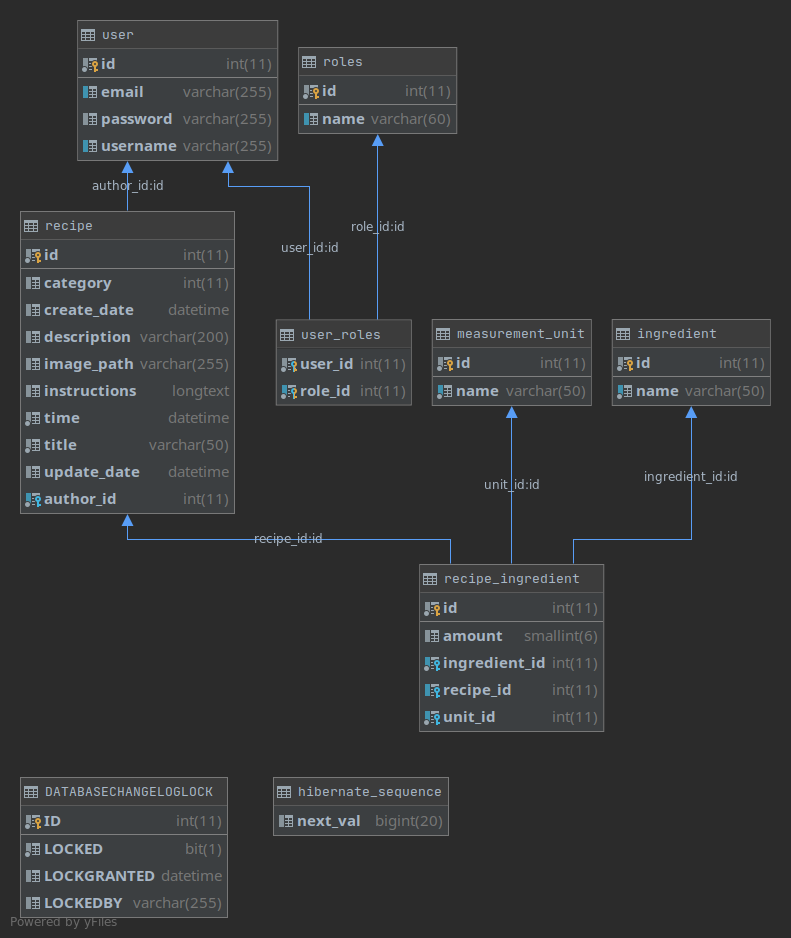
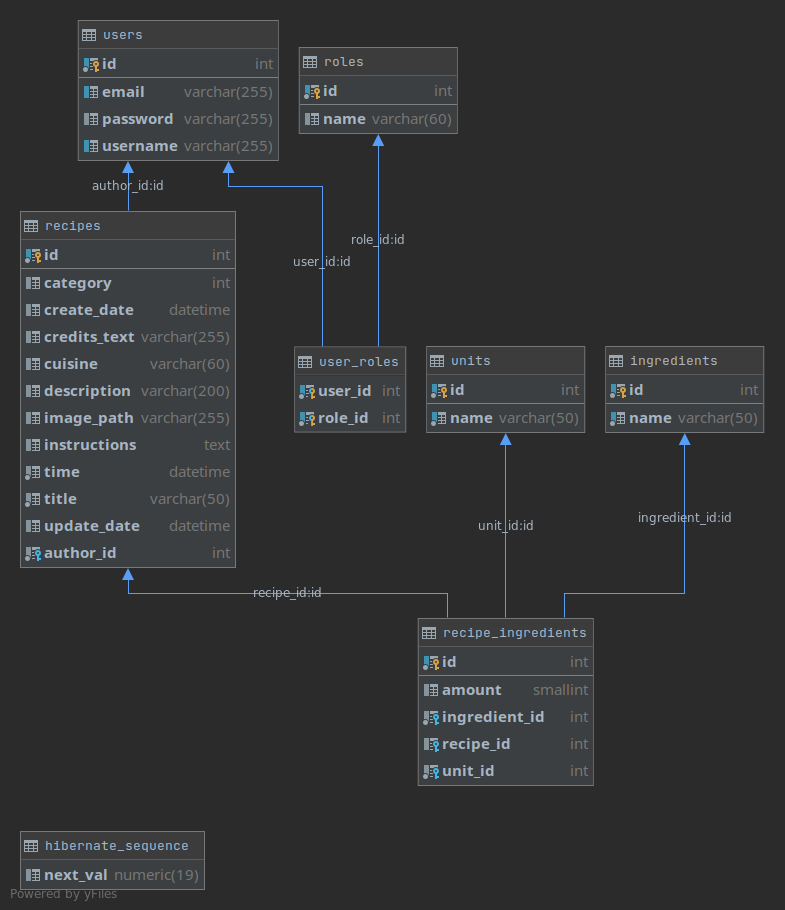
:card_file_box: Update Recipe db entity with cuisine and credits text fields

diff --git a/src/main/kotlin/com/recipeapp/recipeserver/dto/RecipeDTO.kt b/src/main/kotlin/com/recipeapp/recipeserver/dto/RecipeDTO.kt
@@ -9,12 +9,14 @@ data class RecipeDTO(
     val id: Int = 0,
     val title: String,
     val description: String,
+    val cuisine: String,
     val category: Category,
     val instructions: String,
     val recipeIngredients: List<RecipeIngredientDTO>,
     val time: Date,
     val author: String,
-    val imagePath: String = ""
+    val imagePath: String = "",
+    val creditsText: String
 )
 
 fun Recipe.mapToDto(): RecipeDTO {
@@ -22,12 +24,14 @@ fun Recipe.mapToDto(): RecipeDTO {
         this.id,
         this.title,
         this.description,
+        this.cuisine,
         this.category,
         this.instructions,
         this.recipeIngredients.map { it.mapToDto() },
         this.time,
         this.author.username,
-        this.imagePath
+        this.imagePath,
+        this.creditsText
     )
 }
 
@@ -37,10 +41,12 @@ fun RecipeDTO.mapToEntity(): Recipe {
         this.title,
         this.description,
         this.category,
+        this.cuisine,
         this.instructions,
         time = this.time,
         author = User(username = this.author),
-        imagePath = this.imagePath
+        imagePath = this.imagePath,
+        creditsText = this.creditsText
     )
     recipeIngredients.forEach { recipe.addRecipeIngredient(it.mapToEntity(recipe)) }
     return recipe

diff --git a/src/main/kotlin/com/recipeapp/recipeserver/model/Recipe.kt b/src/main/kotlin/com/recipeapp/recipeserver/model/Recipe.kt
@@ -24,6 +24,9 @@ class Recipe(
     @Enumerated(EnumType.ORDINAL)
     var category: Category,
 
+    @Column(length = 60)
+    var cuisine: String,
+
     @Column
     @Lob
     var instructions: String,
@@ -50,7 +53,11 @@ class Recipe(
     @UpdateTimestamp
     @Column
     @Temporal(TemporalType.TIMESTAMP)
-    var updateDate: Date = Date.from(Instant.now())
+    var updateDate: Date = Date.from(Instant.now()),
+
+    //Only used for external recipes
+    @Column(length = 255)
+    var creditsText: String = ""
 ) {
     fun addRecipeIngredient(ingredient: RecipeIngredient) {
         this.recipeIngredients.add(ingredient)
